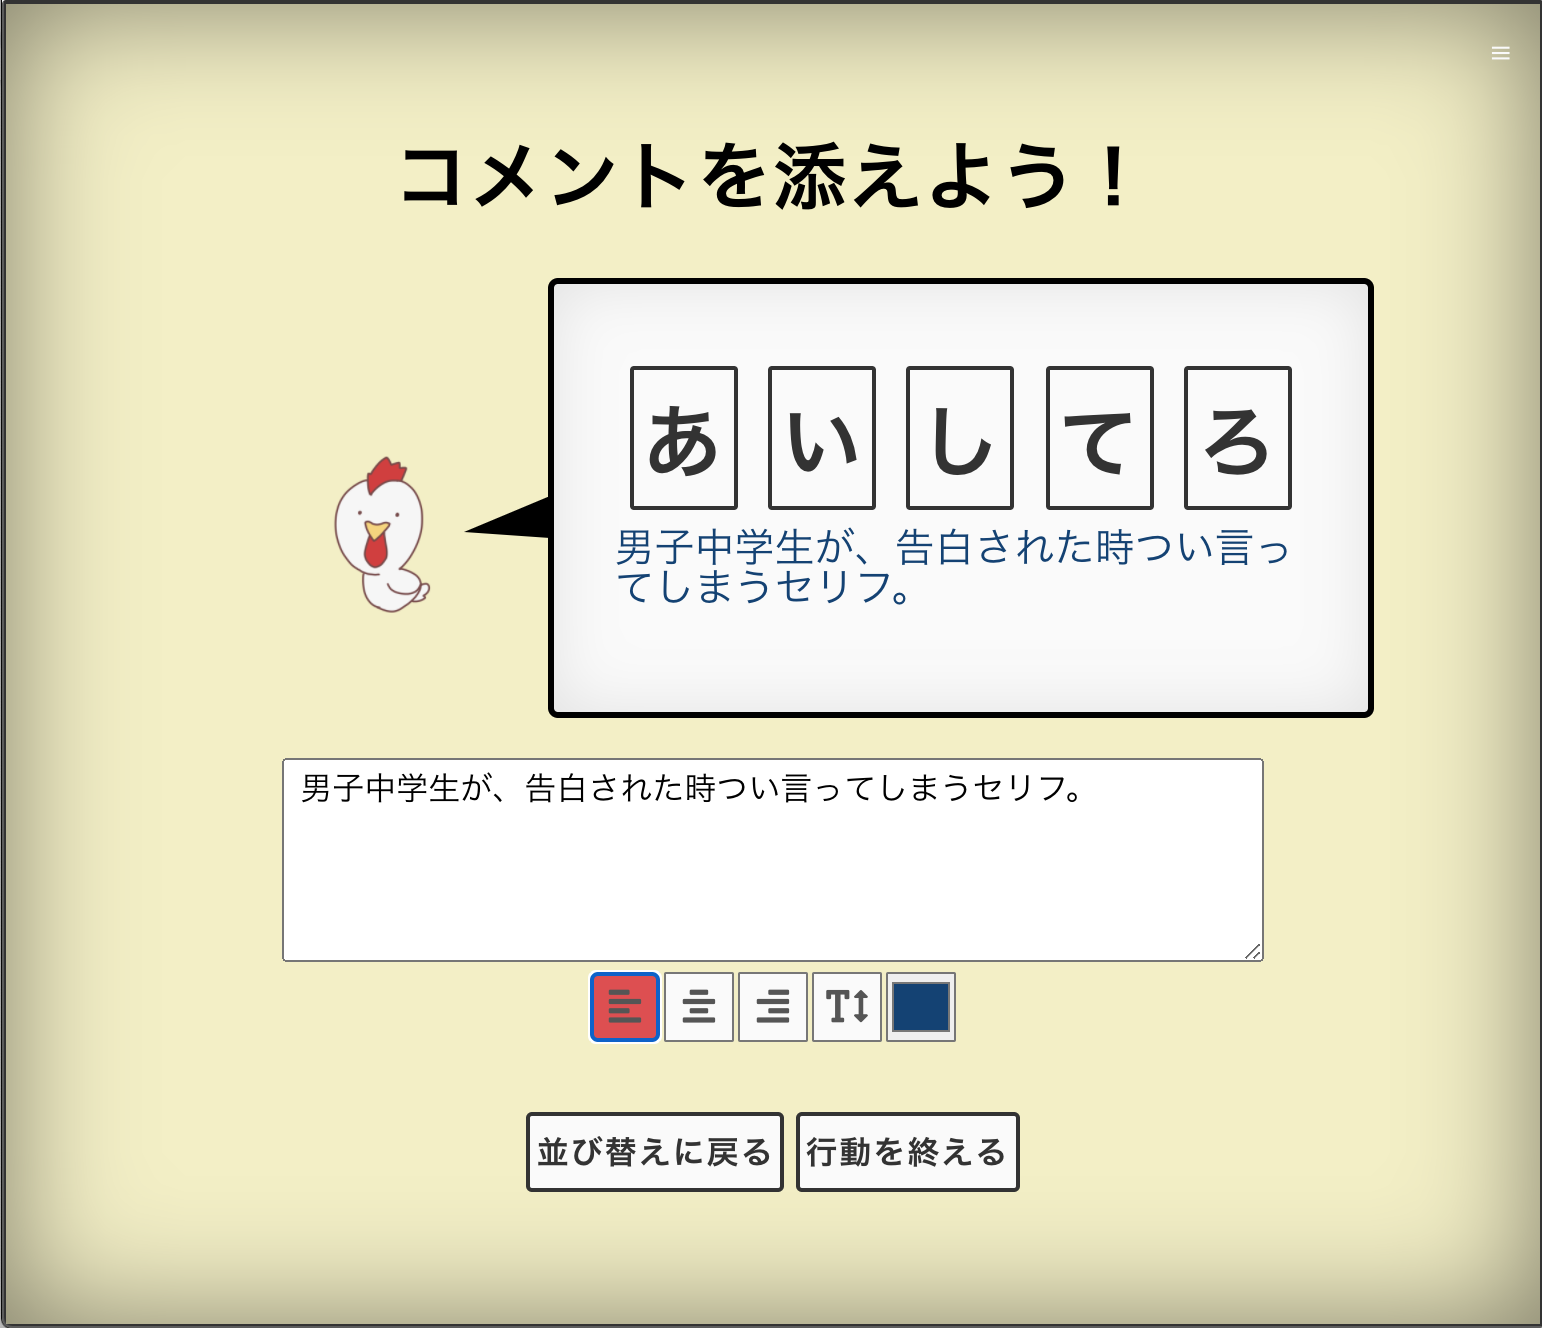
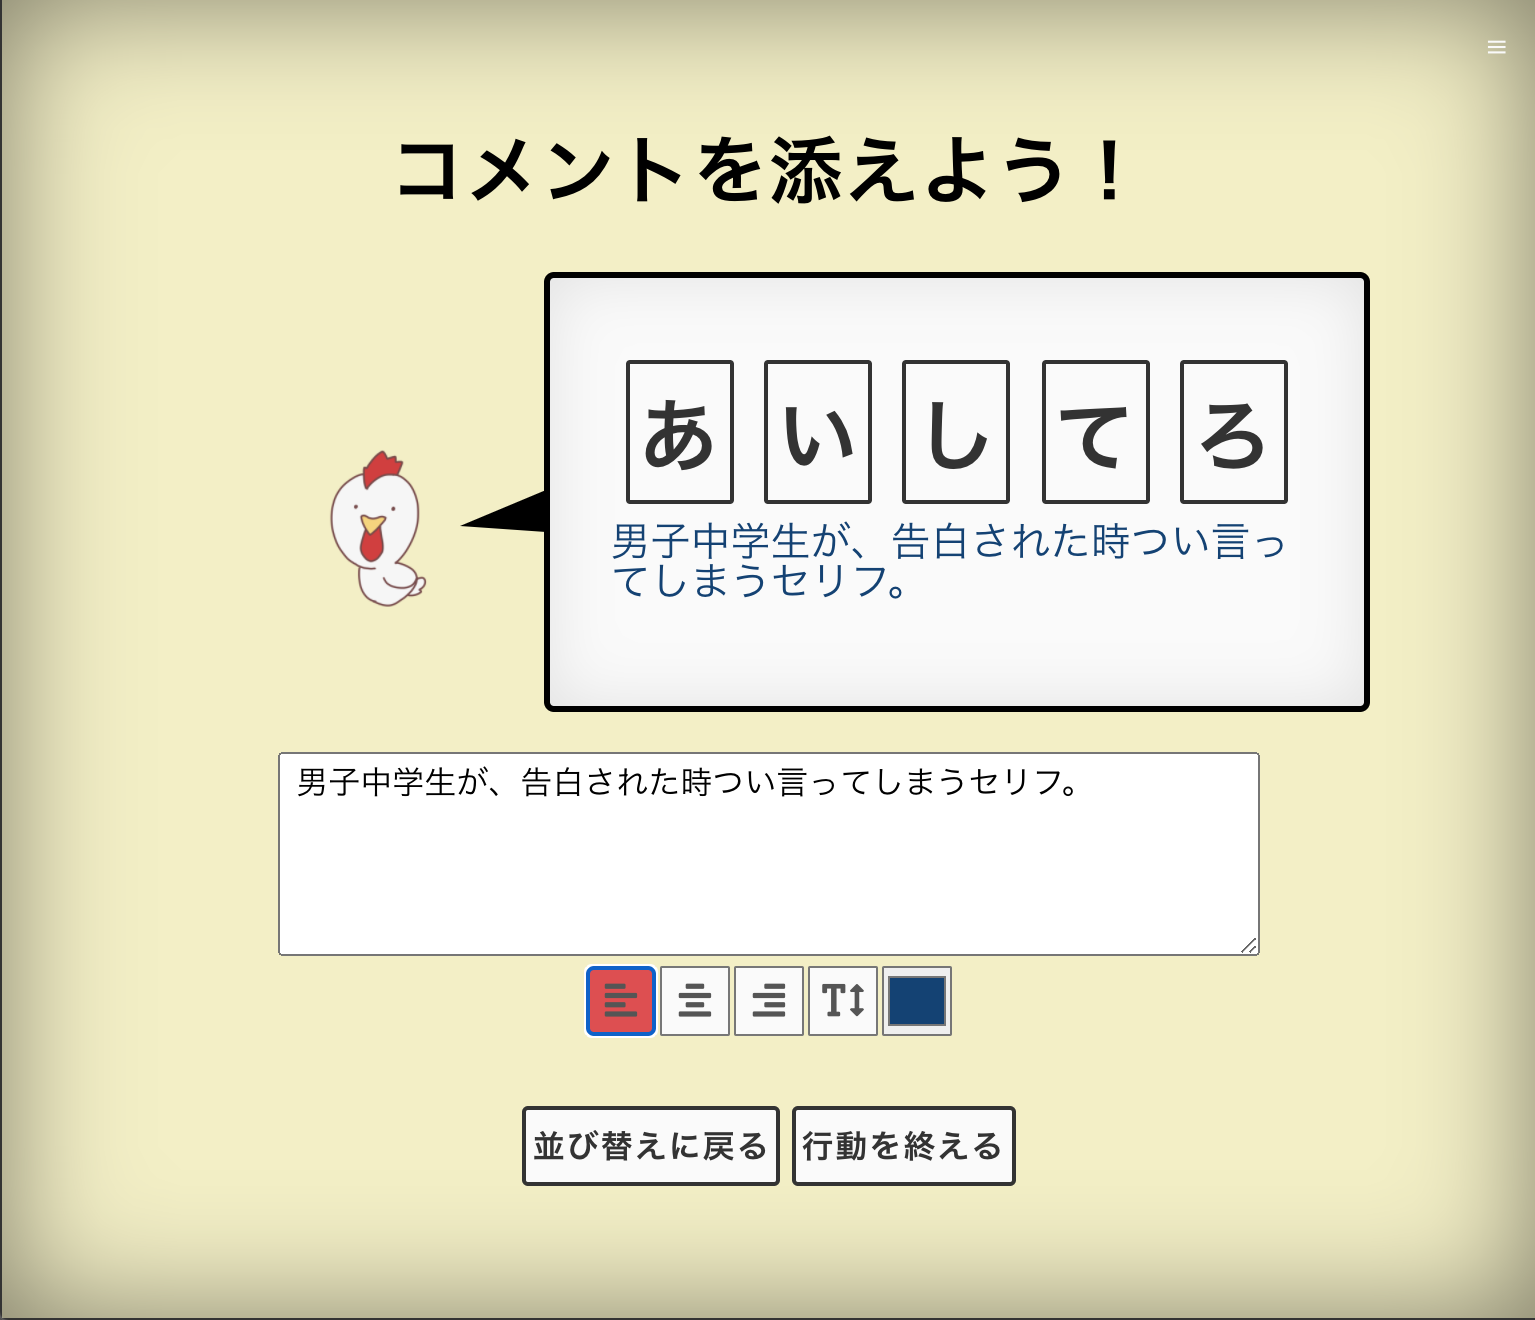
fix

diff --git a/README.md b/README.md
@@ -84,7 +84,7 @@ iOS 13 GoogleChrome,safari (画面サイズ: iPhoneで言うと6以上))<br>
   または、なんでもない言葉でも詳しいシチュエーションを説明して面白くしてみたり。それぞれの発想で活用してください。
   
 <div display="flex" align="center">
-  <img src="./public/image/comment.png" width="50%">
+  <img src="./public/image/comment.png" width="40%">
 </div>
 
   使い方としては、
@@ -114,7 +114,7 @@ iOS 13 GoogleChrome,safari (画面サイズ: iPhoneで言うと6以上))<br>
 <br>
 <br>
 <div display="flex" align="center">
-  <img src="./public/image/result.png" width="50%">
+  <img src="./public/image/result.png" width="40%">
 </div>
 
 
@@ -129,11 +129,15 @@ iOS 13 GoogleChrome,safari (画面サイズ: iPhoneで言うと6以上))<br>
 各プレイヤーに対し、勝敗を問うモーダルが表示されますので、正直にどちらが勝ったか答えて下さい。
 
 <br>
+<br>
 
 最後に、結果の表示がされ、ゲーム終了となります。
 
+<br>
+
 お疲れ様でした！
 
+<br>
 <br>
 
 ***
